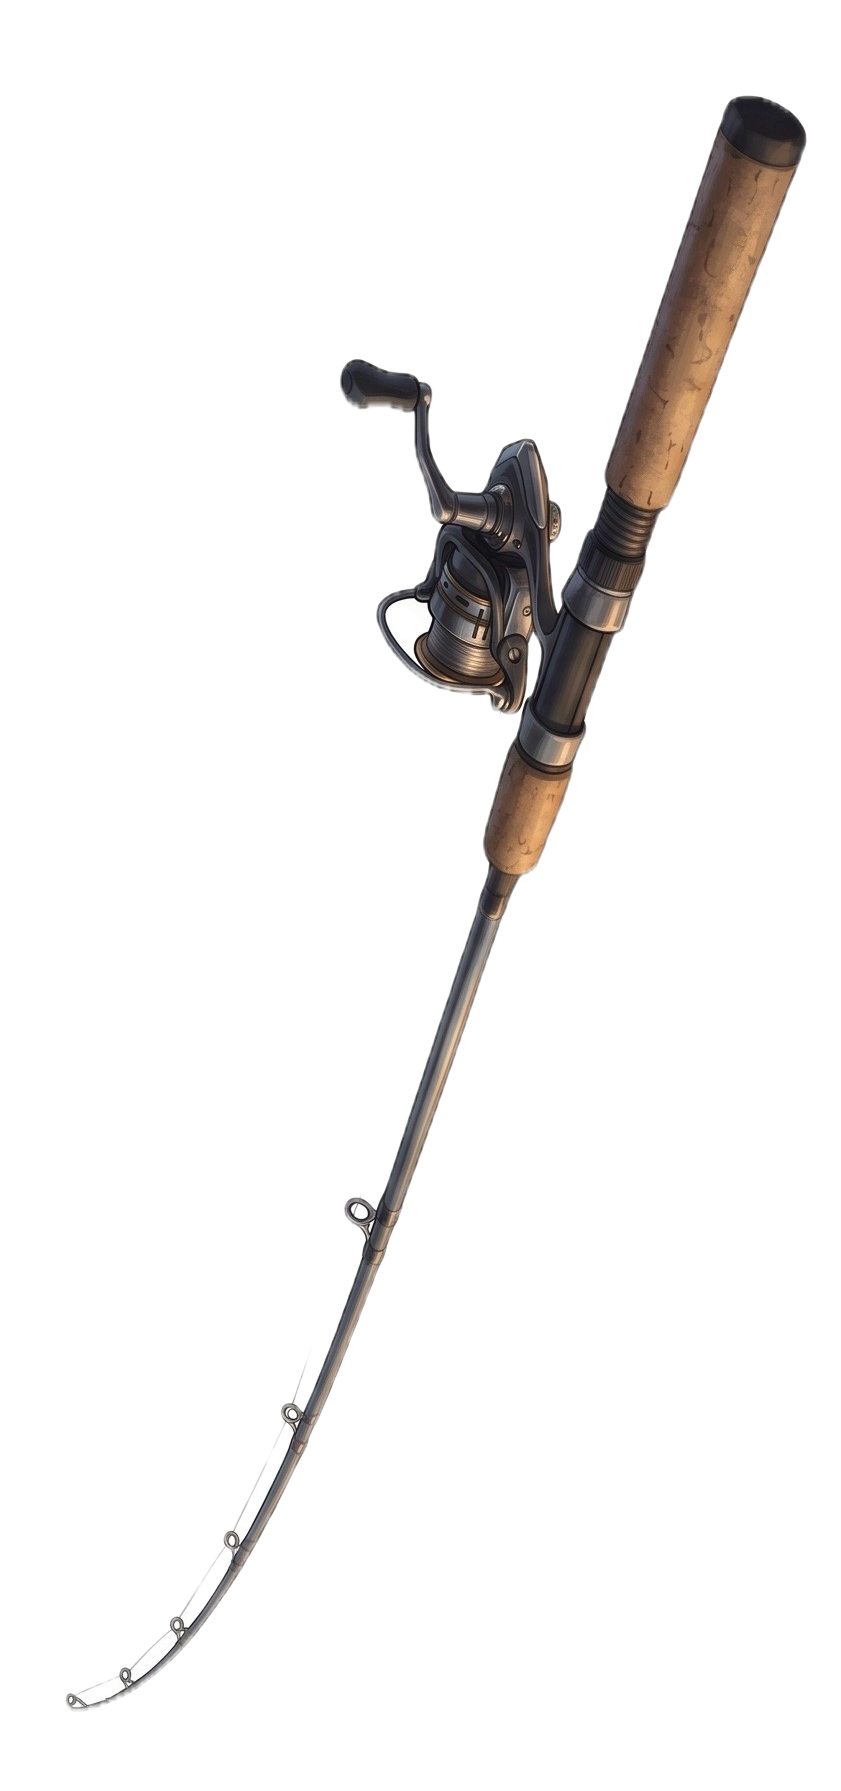
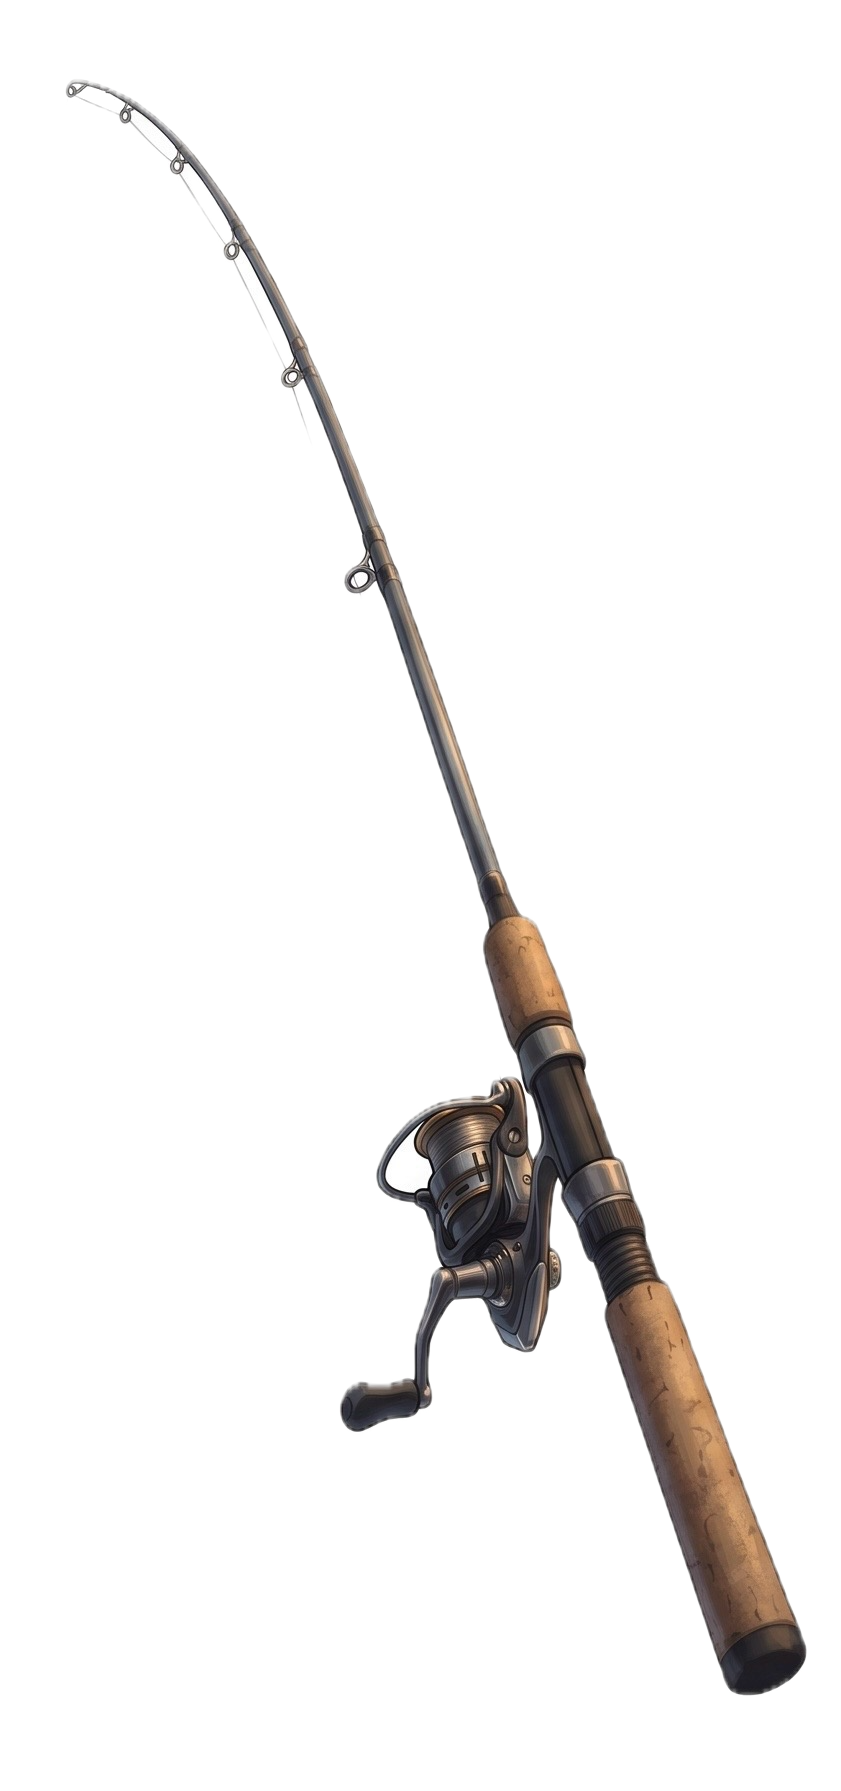
Render exact authentic rod from 4.png without bending or distortions (v1.5.9.39)

Changed region(s): [[0.1237, 0.0307, 0.9584, 0.952], [0.1546, 0.0614, 0.3092, 0.1535], [0.0618, 0.0307, 0.1546, 0.0614]]

diff --git a/src/components/FishingSceneCanvas.tsx b/src/components/FishingSceneCanvas.tsx
@@ -32,6 +32,10 @@ function getPreloadedImage(src: string): HTMLImageElement | null {
   return bgImages[src].complete && bgImages[src].naturalWidth > 0 ? bgImages[src] : null;
 }
 
+if (typeof window !== 'undefined') {
+  getPreloadedImage('/assets/ui/rod_fps.png');
+}
+
 function drawImageCover(ctx: CanvasRenderingContext2D, img: HTMLImageElement, width: number, height: number) {
   const imgRatio = img.width / img.height;
   const canvasRatio = width / height;
@@ -307,18 +311,24 @@ export const FishingSceneCanvas: React.FC<FishingSceneCanvasProps> = ({
         }
       }
 
-      // 6. Вычисление Изгиба Удочки (Bending Rod)
-      const rodBaseX = width * 0.92;
-      const rodBaseY = height + 10;
+      // 6. Вычисление положения Удочки (First-Person Rod & Tip Coordinates)
+      const rodH = Math.min(height * 0.85, Math.max(height * 0.74, width * 1.35));
+      const rodScale = rodH / 1791;
+      const rodW = 841 * rodScale;
 
-      // Спокойное положение вершинки
-      let rodTipTargetX = width * 0.72;
-      let rodTipTargetY = height * 0.45;
+      const buttTargetX = width * 0.94;
+      const buttTargetY = height * 1.02;
 
-      // Изгиб от натяжения лески в процессе вываживания
-      const bendFactor = curGameState === 'reeling' ? Math.max(0, curTension / 100) : 0;
-      const rodTipX = rodTipTargetX - bendFactor * 70;
-      const rodTipY = rodTipTargetY + bendFactor * 110;
+      const rodDrawX = buttTargetX - 750 * rodScale;
+      const rodDrawY = buttTargetY - 1695 * rodScale;
+
+      // Экранные координаты вершинки (тюльпана) для привязки лески
+      const rodTipX = rodDrawX + 78 * rodScale;
+      const rodTipY = rodDrawY + 81 * rodScale;
+
+      const rodBaseX = buttTargetX;
+      const rodBaseY = buttTargetY;
+      const bendFactor = 0;
 
       // Анимация вращения катушки при подмотке лески
       if (curGameState === 'reeling') {
@@ -336,7 +346,7 @@ export const FishingSceneCanvas: React.FC<FishingSceneCanvasProps> = ({
       }
 
       // 9. Отрисовка Удилища (Rod)
-      drawRod(ctx, rodBaseX, rodBaseY, rodTipX, rodTipY, bendFactor, curRodMaterial, crankAngleRef.current);
+      drawRod(ctx, rodDrawX, rodDrawY, rodW, rodH, rodBaseX, rodBaseY, rodTipX, rodTipY, bendFactor, curRodMaterial);
 
       animationFrameId = requestAnimationFrame(render);
     };
@@ -943,91 +953,28 @@ function drawFishingLine(
 
 function drawRod(
   ctx: CanvasRenderingContext2D,
+  drawX: number,
+  drawY: number,
+  rodW: number,
+  rodH: number,
   bx: number,
   by: number,
   tx: number,
   ty: number,
   bendFactor: number,
-  rodMaterial: string,
-  crankAngle: number = 0
+  rodMaterial: string
 ) {
   const rodImg = getPreloadedImage('/assets/ui/rod_fps.png');
 
-  // Контрольная точка кривой изгиба удилища (Bending Rod Bezier)
-  const ctrlX = bx - 60 - bendFactor * 55;
-  const ctrlY = by - (by - ty) * 0.55;
-
   if (rodImg) {
-    // Координаты комля (хвата) и тюльпана (вершинки) в оригинале rod_fps.png
-    const handleImgX = 737;
-    const handleImgY = 1695;
-    const tipImgX = 72;
-    const tipImgY = 81;
-
-    const dImgX = tipImgX - handleImgX; // -665
-    const dImgY = tipImgY - handleImgY; // -1614
-    const imgLen = Math.hypot(dImgX, dImgY); // ~1745
-    const imgAngle = Math.atan2(dImgY, dImgX); // ~ -1.96 rad
-
-    // Вектор на экране от точки комля (bx, by) к вершинке (tx, ty)
-    const dScreenX = tx - bx;
-    const dScreenY = ty - by;
-    const screenLen = Math.hypot(dScreenX, dScreenY);
-    const screenAngle = Math.atan2(dScreenY, dScreenX);
-
-    const scale = screenLen / imgLen;
-    const rot = screenAngle - imgAngle;
-
-    // 1. Отрисовка ЦЕЛЬНОГО монолитного удилища без разбиения на сегменты
-    ctx.save();
-    ctx.translate(bx, by);
-    ctx.rotate(rot);
-    ctx.scale(scale, scale);
-
-    // Рисуем цельный арт удочки, сопоставив комель с точкой хвата (0, 0)
-    ctx.drawImage(rodImg, -handleImgX, -handleImgY);
-
-    // 2. Анимация катушки (вращение рукояти при подмотке лески)
-    // В координатах rod_fps.png ось катушки расположена в точке (x: 546, y: 1265)
-    const axleX = 546 - handleImgX;
-    const axleY = 1265 - handleImgY;
-
-    ctx.save();
-    ctx.translate(axleX, axleY);
-
-    const crankRadius = 38; // в масштабе оригинального изображения
-    const knobX = Math.cos(crankAngle) * crankRadius;
-    const knobY = Math.sin(crankAngle) * crankRadius * 0.65; // Эллиптическая 3D перспектива вращения
-
-    // Рычаг катушки (металлический стержень)
-    ctx.strokeStyle = '#cbd5e1';
-    ctx.lineWidth = 9;
-    ctx.lineCap = 'round';
-    ctx.beginPath();
-    ctx.moveTo(0, 0);
-    ctx.lineTo(knobX, knobY);
-    ctx.stroke();
-
-    // Ось вращения катушки
-    ctx.fillStyle = '#0f172a';
-    ctx.beginPath();
-    ctx.arc(0, 0, 11, 0, Math.PI * 2);
-    ctx.fill();
-
-    // Кноб (деревянная/пробковая ручка)
-    ctx.fillStyle = '#d97706';
-    ctx.beginPath();
-    ctx.ellipse(knobX, knobY, 12, 8, crankAngle, 0, Math.PI * 2);
-    ctx.fill();
-    ctx.strokeStyle = '#78350f';
-    ctx.lineWidth = 2.5;
-    ctx.stroke();
-
-    ctx.restore();
-
-    ctx.restore();
+    // Отрисовка цельного оригинального арта удилища из 4.png 1:1 без срезов и искажений
+    ctx.drawImage(rodImg, drawX, drawY, rodW, rodH);
     return;
   }
+
+  // Fallback: процедурная отрисовка удилища, если изображение еще загружается
+  const ctrlX = bx - 60 - bendFactor * 55;
+  const ctrlY = by - (by - ty) * 0.55;
 
   let mainColor = '#d4a373'; // reed / бамбук
   let nodeColor = '#78350f'; // узлы бамбука

diff --git a/src/version.ts b/src/version.ts
@@ -1,1 +1,1 @@
-export const APP_VERSION = 'v1.5.9.38';
+export const APP_VERSION = 'v1.5.9.39';
